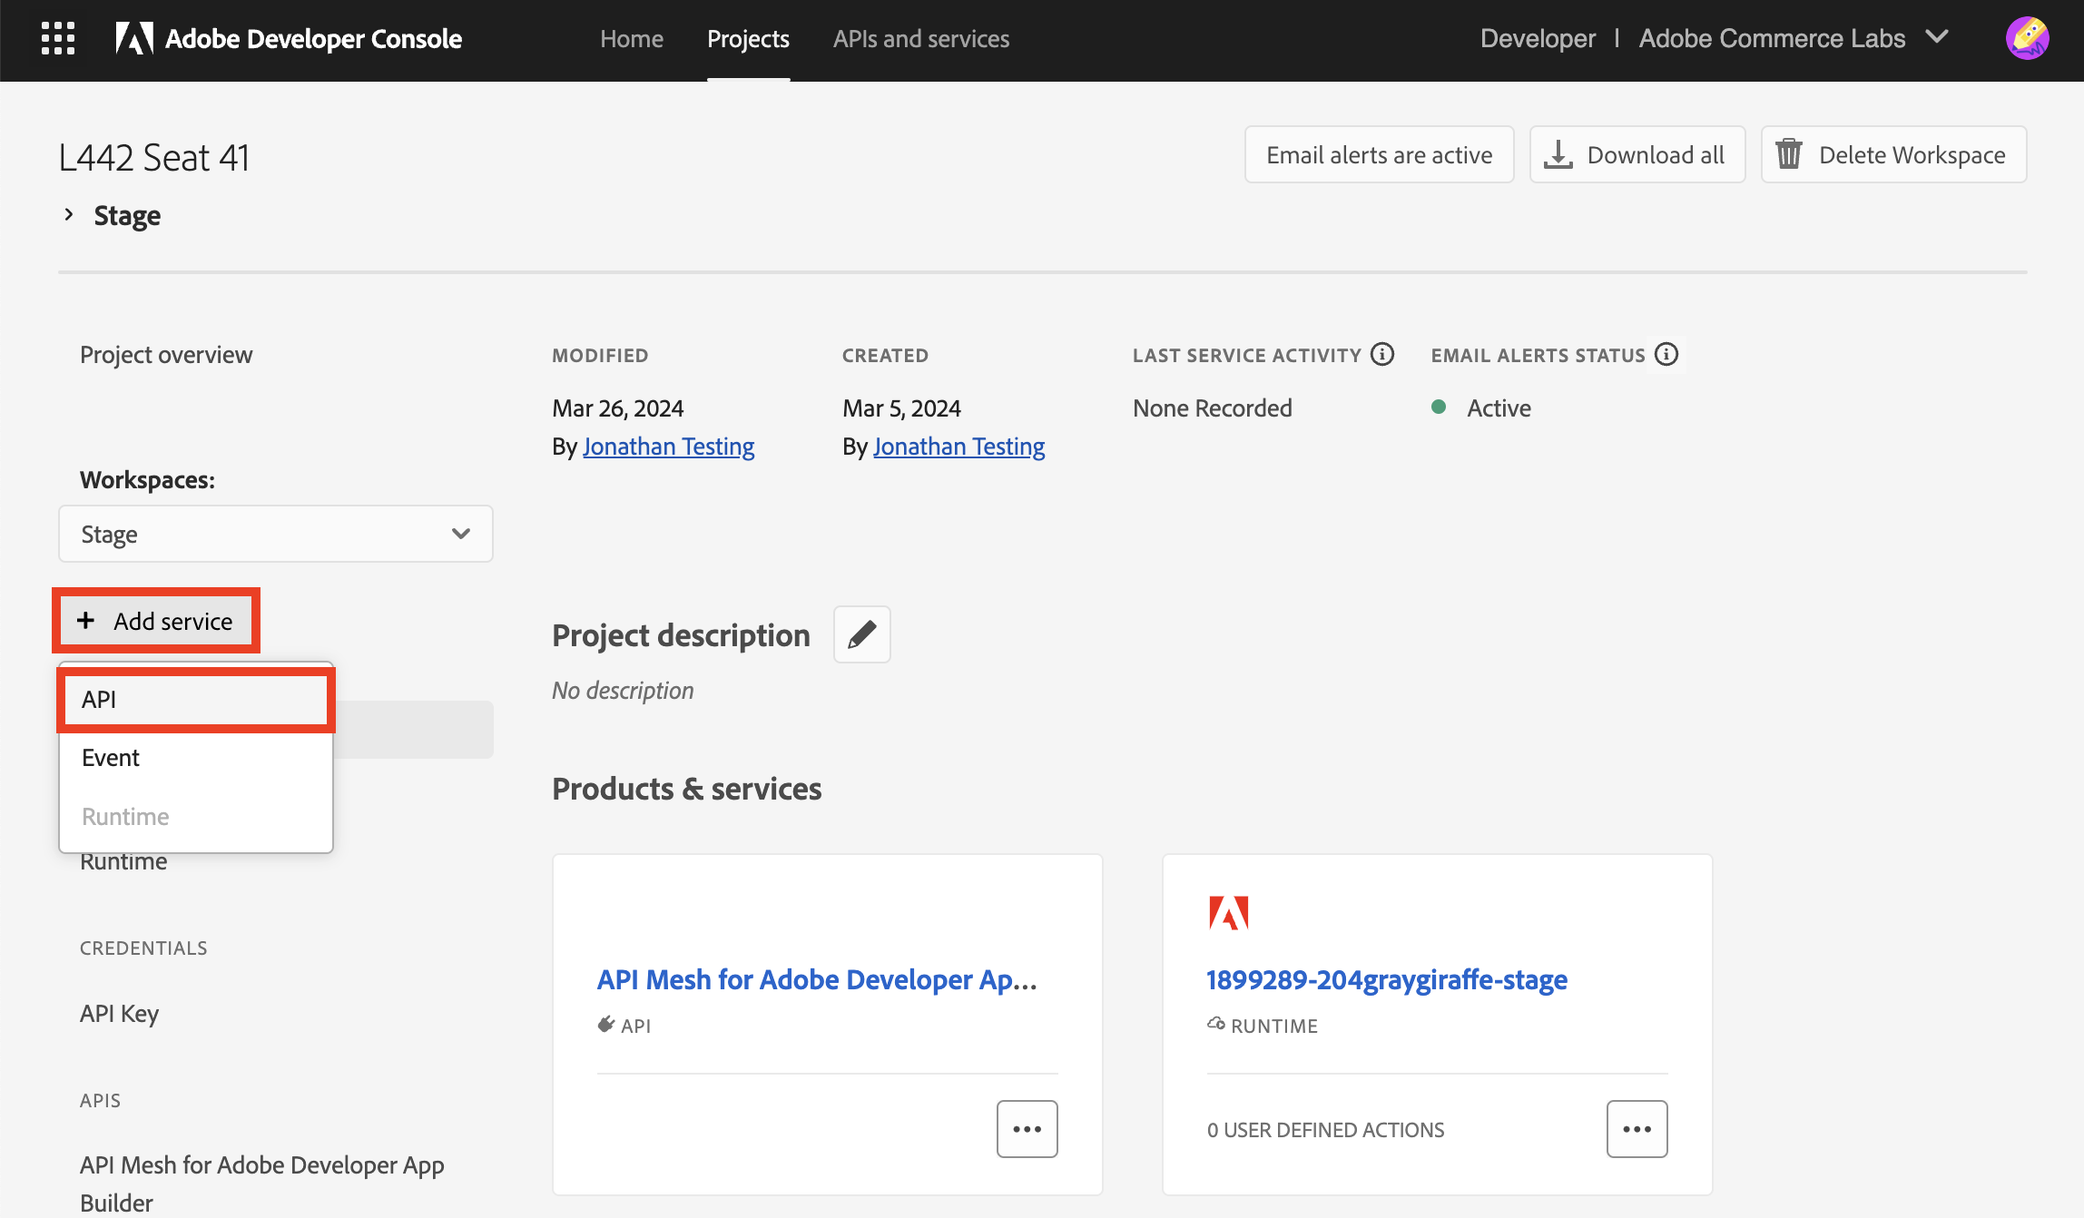
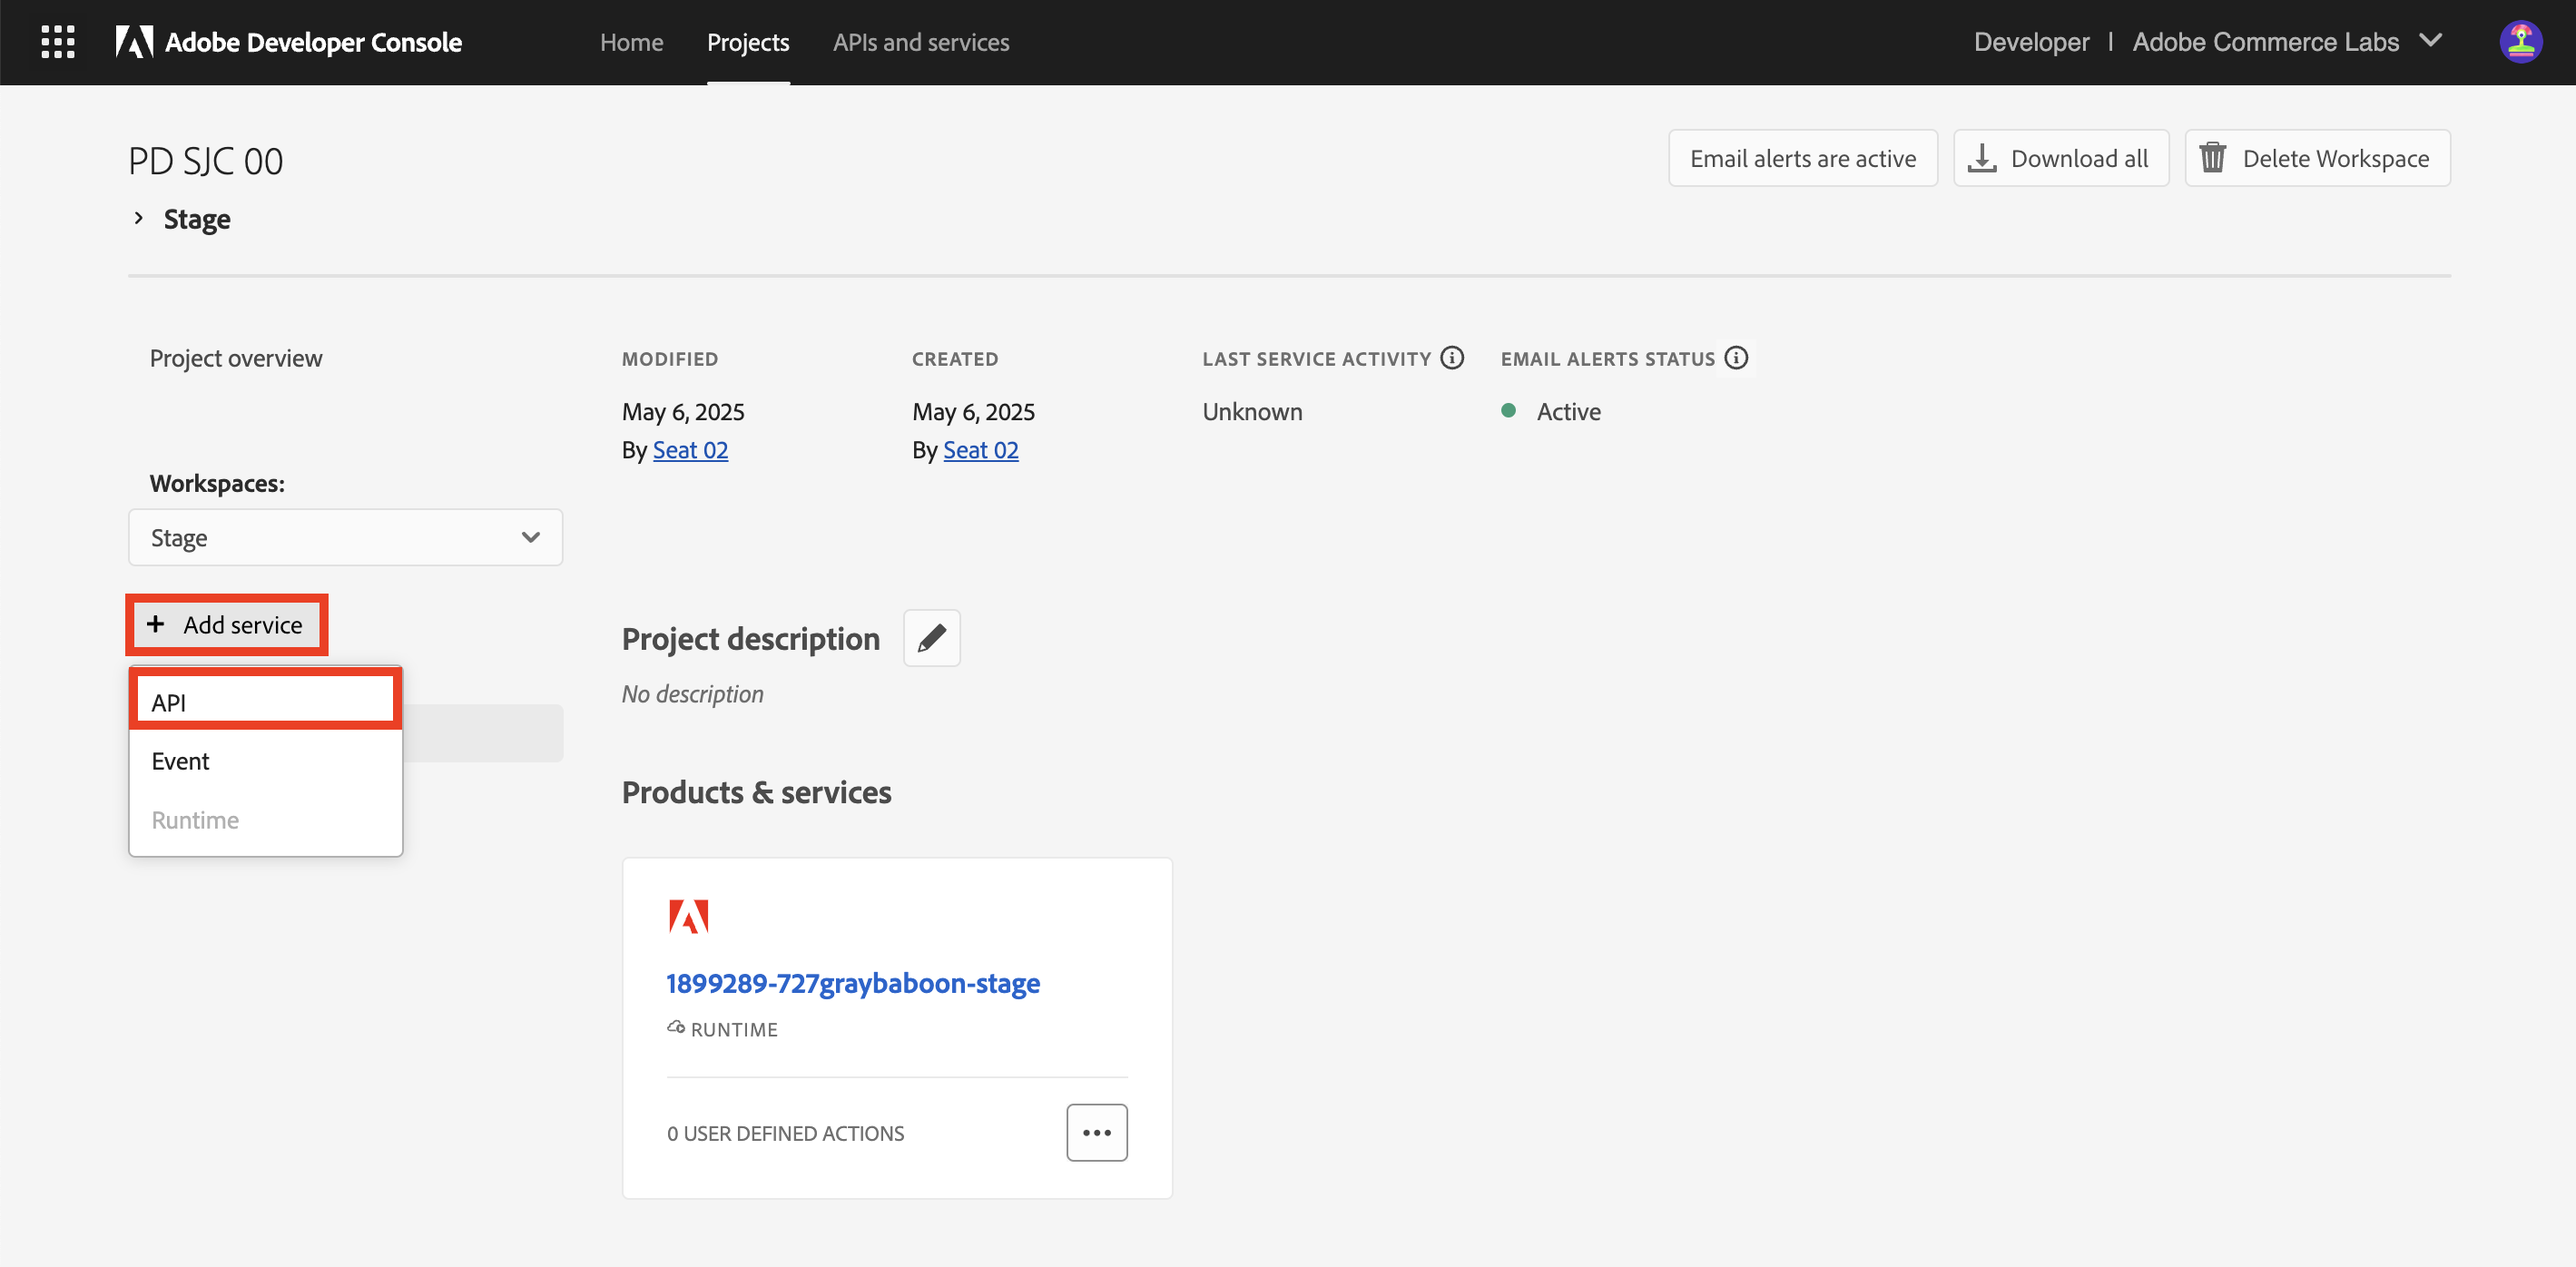
Project name and tenant ID info updates (#3)

diff --git a/README.md b/README.md
@@ -312,7 +312,7 @@ The purpose of this exercise is to demonstrate sending events from Commerce to A
 
     Then select the project assigned to your seat: 
 
-    **L442 Seat <SEAT_NUMBER>**
+    **PD SJC <SEAT_NUMBER>**
 
     *Tip: Use search to find your project*
 
@@ -350,6 +350,7 @@ The purpose of this exercise is to demonstrate sending events from Commerce to A
         ![Alt text](docs/oauth-credential.png "OAuth Server-to-Server Credential")
 
     - Replace `<TENANT_ID>` in the value for the `COMMERCE_BASE_URL` with the tenant ID for your assigned seat.
+        - The tenant ID can be found from the Commerce Admin URL contained in the final output after creating the Commerce storefront. The Admin URL is formatted as `https://na1-sandbox.admin.commerce.adobe.com/<TENANT_ID>`
 
     - Fill in the `IO_PROJECT_ID`, and values `IO_WORKSPACE_ID` using the downloaded `workspace.json` file and the commented instructions in the `.env` file.
 
